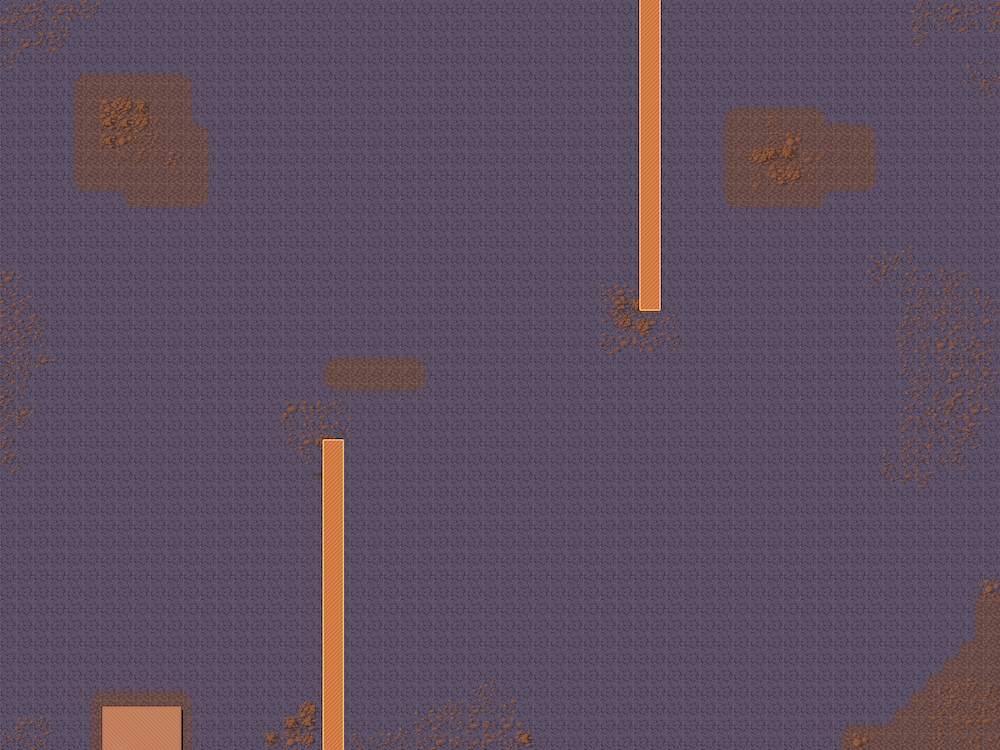
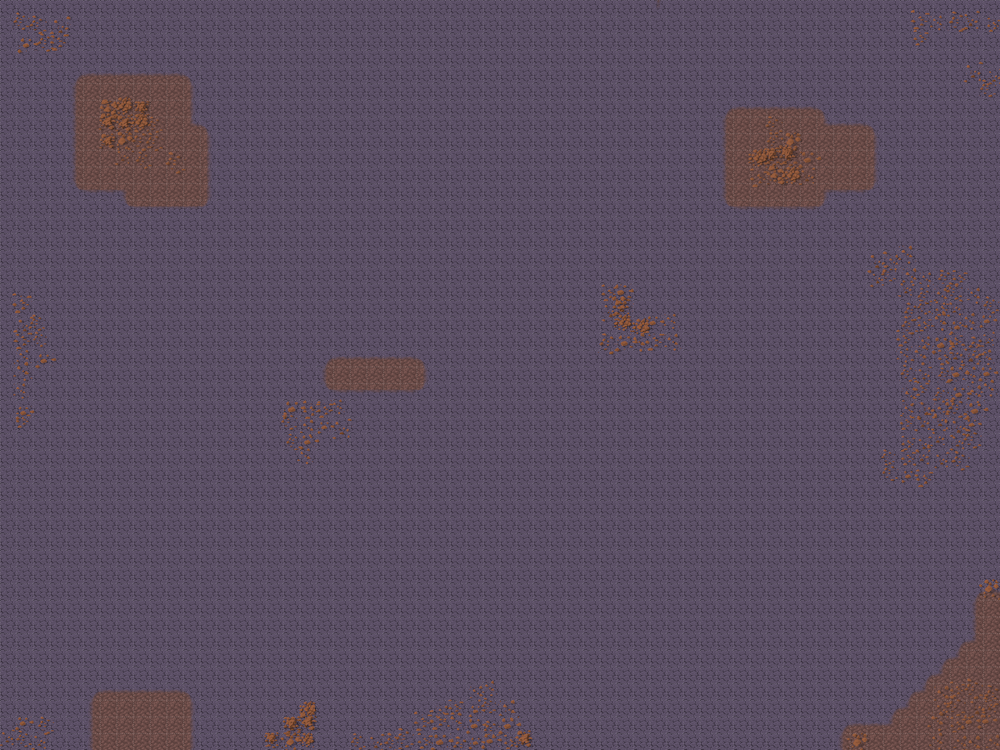
Background

diff --git a/Program.cs b/Program.cs
@@ -160,43 +160,31 @@ namespace Callof2d
 
             //center wall left 1
             wall5.SetColor(BROWN);
-<<<<<<< HEAD
-            wall5.SetPosition(new Vector2((MAX_X/12+ROOM1_WIDTH-INNER_WALL_THICKNESS)*2/5 - 1, MAX_Y/13+(ROOM1_HEIGHT)*3/5));
+            wall5.SetPosition(new Vector2((MAX_X/12+ROOM1_WIDTH-INNER_WALL_THICKNESS)*2/5, MAX_Y/13+(ROOM1_HEIGHT)*3/5 + 2));
             wall5.SetHeight((ROOM1_HEIGHT+INNER_WALL_THICKNESS)*2/5);
             wall5.SetWidth(INNER_WALL_THICKNESS/2);
-=======
-            wall5.SetPosition(new Vector2((MAX_X/10+ROOM1_WIDTH-WALL_THICKNESS)*2/5, MAX_Y/10+(ROOM1_HEIGHT)*3/5));
-            wall5.SetHeight((ROOM1_HEIGHT+WALL_THICKNESS)*2/5);
-            wall5.SetWidth(WALL_THICKNESS);
->>>>>>> 07df970cfd2756ce95604243228573e26bdff5e8
             wall5.SetHorizontal(true);
 
             //cennter wall left 2
             wall7.SetColor(BROWN);
-            wall7.SetPosition(new Vector2((MAX_X/10+ROOM1_WIDTH-WALL_THICKNESS)*2/5, MAX_Y/10));
-            wall7.SetHeight((ROOM1_HEIGHT+WALL_THICKNESS)*2/5);
-            wall7.SetWidth(WALL_THICKNESS);
+            wall7.SetPosition(new Vector2((MAX_X/12+ROOM1_WIDTH-INNER_WALL_THICKNESS)*2/5, MAX_Y/12));
+            wall7.SetHeight((ROOM1_HEIGHT+INNER_WALL_THICKNESS)*2/5);
+            wall7.SetWidth(INNER_WALL_THICKNESS/2);
             wall7.SetHorizontal(true);
 
             //creat door
             wall8.SetColor(BLACK);
-            wall8.SetPosition(new Vector2((MAX_X/10+ROOM1_WIDTH-WALL_THICKNESS)*2/5, MAX_Y/10+(ROOM1_HEIGHT+WALL_THICKNESS)*3/10));
-            wall8.SetHeight((ROOM1_HEIGHT+WALL_THICKNESS)*2/5);
-            wall8.SetWidth(WALL_THICKNESS);
+            wall8.SetPosition(new Vector2((MAX_X/12+ROOM1_WIDTH-INNER_WALL_THICKNESS)*2/5, MAX_Y/10+(ROOM1_HEIGHT+WALL_THICKNESS)*39/100));
+            wall8.SetHeight((ROOM1_HEIGHT+WALL_THICKNESS)*2/10);
+            wall8.SetWidth(INNER_WALL_THICKNESS/2);
             wall8.SetHorizontal(true);
         
 
             //center wall2
             wall6.SetColor(BROWN);
-<<<<<<< HEAD
             wall6.SetPosition(new Vector2((MAX_X)*3/5 + 20, MAX_Y/26+INNER_WALL_THICKNESS));
             wall6.SetHeight((ROOM1_HEIGHT+INNER_WALL_THICKNESS)*2/5);
             wall6.SetWidth(INNER_WALL_THICKNESS/2);
-=======
-            wall6.SetPosition(new Vector2((MAX_X)*3/5, MAX_Y/10+WALL_THICKNESS));
-            wall6.SetHeight((ROOM1_HEIGHT+WALL_THICKNESS)*2/5);
-            wall6.SetWidth(WALL_THICKNESS);
->>>>>>> 07df970cfd2756ce95604243228573e26bdff5e8
             wall6.SetHorizontal(true);
 
             

diff --git a/Game/Services/VideoService.cs b/Game/Services/VideoService.cs
@@ -103,9 +103,9 @@ namespace Callof2d.Game.Services
 
         public void DrawWalls(List<Actor> actors)
         {
-            for (int i = 0; i < 4; i++)
+            foreach (Actor wall in actors)
             {
-                DrawWall(actors[i]);
+                DrawWall(wall);
             }
         }
 
